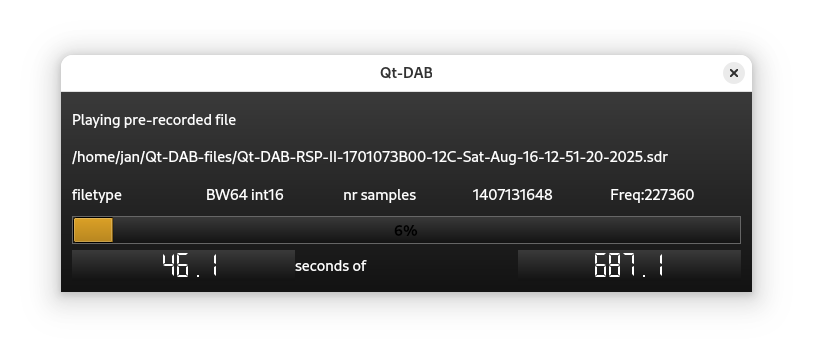
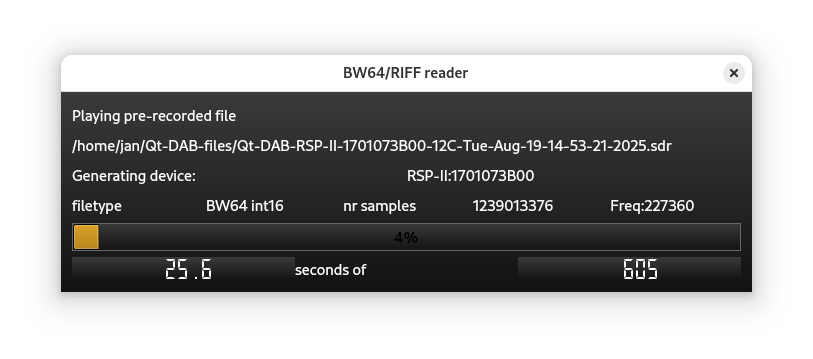
added devicename to .sdr files

diff --git a/sources/devices/filereaders/new-reader/riff-reader.cpp b/sources/devices/filereaders/new-reader/riff-reader.cpp
@@ -44,9 +44,10 @@ uint32_t segmentSize;
 char header [5];
 
         header [4]	= 0;
-	bitDepth	= 15;	// default
+	bitDepth	= 0;	// i.e. unknown
 	tunedFrequency	= -1;
 	denominator	= 0;
+	theDevice	= "";
 	filePointer     = fopen (fileName. toLatin1 (). data (), "rb");
         if (filePointer == nullptr) {
 	   QString val =
@@ -174,6 +175,12 @@ char header [5];
 	   if (QString (header) == "bits")
 	      fread (&bitDepth, 1, 4, filePointer);
 	   else
+	   if (QString (header) == "sys ") {
+	      char temp [255];
+	      fread (temp, 1, segmentSize, filePointer);
+	      theDevice	= QString (temp);
+	   }
+	   else
 	      fseek (filePointer, segmentSize, SEEK_CUR);
 	   fread (header, 1, 4, filePointer);
 //	   fprintf (stderr, "Now we read %s\n", header);
@@ -184,7 +191,7 @@ char header [5];
            }
 	}
 
-	denominator	= value_for (bitDepth);
+	denominator	= bitDepth != 0 ? value_for (bitDepth) : 32768;
 	if (QString (header) != "data") {	// should not happen
 	   QString val =
                    QString ("File '%1' is no valid SDR file").arg(fileName);
@@ -299,6 +306,12 @@ char header [5];
 	   if (QString (header) == "bits")
 	      fread (&bitDepth, 1, 4, filePointer);
 	   else
+	   if (QString (header) == "sys ") {
+	      char temp [255];
+	      fread (temp, 1, segmentSize, filePointer);
+	      theDevice	= QString (temp);
+	   }
+	   else
 	      fseek (filePointer, segmentSize, SEEK_CUR);
 	   fread (header, 1, 4, filePointer);
 //	   fprintf (stderr, "Now we read %s\n", header);
@@ -309,7 +322,7 @@ char header [5];
            }
 	}
 
-	denominator	= value_for (bitDepth);
+	denominator	= bitDepth != 0 ? value_for (bitDepth): 32768;
 	if (QString (header) != "data") {	// should not happen
 	   QString val =
                    QString ("File '%1' is no valid SDR file").arg(fileName);
@@ -403,5 +416,9 @@ uint64_t	riffReader::currentPos		() {
 
 int	riffReader::getVFOFrequency	() {
 	return tunedFrequency;
+}
+
+QString		riffReader::getDevice	() {
+	return theDevice;
 }
 

diff --git a/sources/devices/filereaders/filereader-widget.h b/sources/devices/filereaders/filereader-widget.h
@@ -37,6 +37,8 @@ public:
 	QLCDNumber	*currentTime;
 	QLabel		*seconds;
 	QLCDNumber	*totalTime;
+	QLabel		*deviceLabel;
+	QLabel		*theDevice;
 	QLabel		*typeLabel;
 	QLabel		*typeOfFile;
 	QLabel		*amountLabel;
@@ -48,6 +50,8 @@ public:
 void	setupUi		(QWidget *qw) {
 	titleLabel	= new QLabel ("Playing pre-recorded file");
 	nameofFile	= new QLabel ();
+	deviceLabel	= new QLabel ();
+	theDevice	= new QLabel ();
 	typeLabel	= new QLabel ("filetype ");
 	typeOfFile	= new QLabel ();
 	amountLabel	= new QLabel (" nr samples ");
@@ -64,11 +68,14 @@ void	setupUi		(QWidget *qw) {
 	totalTime	->  setFrameShape (QFrame::NoFrame);
 	totalTime	->  setSegmentStyle (QLCDNumber::Flat);
 	QHBoxLayout *line_2	= new QHBoxLayout ();
-	line_2		-> addWidget (typeLabel);
-	line_2		-> addWidget (typeOfFile);
-	line_2		-> addWidget (amountLabel);
-	line_2		-> addWidget (sampleCount);
-	line_2		-> addWidget (frequencyLabel);
+	line_2		-> addWidget	(deviceLabel);
+	line_2		-> addWidget (theDevice);
+	QHBoxLayout *line_3	= new QHBoxLayout ();
+	line_3		-> addWidget (typeLabel);
+	line_3		-> addWidget (typeOfFile);
+	line_3		-> addWidget (amountLabel);
+	line_3		-> addWidget (sampleCount);
+	line_3		-> addWidget (frequencyLabel);
 	QHBoxLayout *bottom	= new QHBoxLayout ();
 	bottom		-> addWidget (currentTime);
 	bottom		-> addWidget (seconds);
@@ -78,6 +85,7 @@ void	setupUi		(QWidget *qw) {
 	base		-> addWidget (titleLabel);
 	base		-> addWidget (nameofFile);
 	base		-> addItem	(line_2);
+	base		-> addItem	(line_3);
 	base		-> addWidget (fileProgress);
 	base		-> addItem   (bottom);
 	

diff --git a/sources/support/riffWriter.cpp b/sources/support/riffWriter.cpp
@@ -43,6 +43,8 @@ const char	* aux1	= "freq";
 static
 const char	* aux2	= "bits";
 static
+const char	* aux3	= "sys ";
+static
 const char	* data	= "data";
 
 	riffWriter::riffWriter	() {
@@ -52,7 +54,8 @@ const char	* data	= "data";
 	riffWriter::~riffWriter	() {}
 
 bool	riffWriter::init	(const QString &fileName, const int sampleRate, 
-	                 const int frequency, const int bitDepth) {
+	                         const int frequency, const int bitDepth,
+	                         QString creatorText) {
 	isValid			= false;
 	filePointer		= fopen (fileName. toUtf8 (). data (), "wb");
 	if (filePointer == nullptr)
@@ -122,6 +125,17 @@ bool	riffWriter::init	(const QString &fileName, const int sampleRate,
 	   locationCounter	+= 4;
 	   fwrite (&bitDepth, 1, 4, filePointer);
 	   locationCounter	+= 4;
+	}
+//	the "creator" chunk
+	if (bitDepth > 0) {
+	   fwrite (aux3, 1, 4, filePointer);
+	   locationCounter	+= 4;
+	   int size = strlen (creatorText. toLatin1 (). data ());
+	   locationCounter	+= 4;
+	   fwrite (&size,  1, 4, filePointer);
+	   locationCounter	+= 4;
+	   fwrite (creatorText. toLatin1 (). data (), 1, size, filePointer);
+	   locationCounter	+= size;
 	}
 //
 //	start of the "data" chunk

diff --git a/sources/devices/filereaders/new-reader/newfiles.cpp b/sources/devices/filereaders/new-reader/newfiles.cpp
@@ -40,6 +40,7 @@
 	newFilesSettings	= s;
 	setupUi (&myFrame);
 	setPositionAndSize (s, &myFrame, WAVSETTINGS);
+	myFrame. setWindowTitle ("BW64/RIFF reader");
 	myFrame. show	();
 	this -> fileName	= fileName;
 
@@ -48,7 +49,12 @@
 	currentTime		-> display (0);
 	int64_t fileLength	= theReader. elementCount ();
 	QString	fileType	= theReader. fileType ();
+	QString deviceName	= theReader. getDevice ();
 	totalTime	-> display ((float)fileLength / SAMPLERATE);
+	if (deviceName != "") {
+	   deviceLabel	-> setText ("Generating device: ");
+	   theDevice	-> setText (deviceName);
+	}
 	typeOfFile	-> setText (fileType);
 	sampleCount	-> setText (QString::number (fileLength));
 	int32_t	Freq	= theReader. getVFOFrequency ();

diff --git a/sources/frontend/fib-decoder.cpp b/sources/frontend/fib-decoder.cpp
@@ -923,7 +923,17 @@ const int16_t	Length	= getBits_5 (d, 3);
 const uint8_t	CN_bit	= getBits_1 (d, 8 + 0);
 const uint8_t	OE_bit	= getBits_1 (d, 8 + 1);
 const uint8_t	PD_bit	= getBits_1 (d, 8 + 2);
-	fprintf (stderr, "Fig20\n");
+#ifndef	__MINGW32__
+	static bool shown = false;
+	if (!shown) {
+	   if (theEnsemble. namePresent) {
+	      fprintf (stderr, "FIG0/20 appears in %s\n",
+	                           theEnsemble. ensembleName.
+	                                     toLatin1 (). data ());
+	      shown = true;
+	   }
+	}
+#endif
 	return;
 	while (used < Length) 
 	   used = HandleFIG0Extension21 (d, used, CN_bit, OE_bit, PD_bit);

diff --git a/sources/frontend/sample-reader.cpp b/sources/frontend/sample-reader.cpp
@@ -185,8 +185,10 @@ auto *buffer	= dynVec (std::complex<float>, nrSamples);
 }
 
 void	sampleReader::startDumping (const QString &fileName,
-	                                      int freq, int bitDepth) {
-	sourceDumper. init (fileName, SAMPLERATE, freq, bitDepth);
+	                            int freq, int bitDepth, 
+	                            const QString deviceName) {
+	sourceDumper. init (fileName, SAMPLERATE,
+	                    freq, bitDepth, deviceName);
 }
 
 void	sampleReader::stopDumping() {

diff --git a/sources/main/radio.cpp b/sources/main/radio.cpp
@@ -3476,7 +3476,9 @@ QString channelName	= channel. channelName;
 	                                     deviceName, channelName);
 	configHandler_p	-> mark_dumpButton (true);
 	theOFDMHandler -> startDumping (rawDumpName,
-	                            channel. tunedFrequency, bitDepth);
+	                                channel. tunedFrequency, 
+	                                bitDepth,
+	                                inputDevice_p -> deviceName ());
 	sourceDumping = true;
 }
 

diff --git a/sources/frontend/ofdm-handler.cpp b/sources/frontend/ofdm-handler.cpp
@@ -643,8 +643,8 @@ bool    ofdmHandler::setDataChannel (packetdata &d,
 }
 
 void	ofdmHandler::startDumping	(const QString &f, int freq,
-	                                               int bitDepth) {
-	theReader. startDumping (f, freq, bitDepth);
+	                                 int bitDepth, const QString creator) {
+	theReader. startDumping (f, freq, bitDepth, creator);
 }
 
 void	ofdmHandler::stopDumping() {

diff --git a/sources/frontend/sample-reader.h b/sources/frontend/sample-reader.h
@@ -55,7 +55,7 @@ public:
 	      void	getSamples	(std::vector<Complex> &v,
 	                                 int index,
 	                                 int32_t n, int32_t phase, bool saving);
-	      void	startDumping	(const QString &, int, int);
+	      void	startDumping	(const QString &, int, int, const QString);
 	      void	stopDumping	();
 private:
 	      riffWriter	sourceDumper;

diff --git a/sources/support/riffWriter.h b/sources/support/riffWriter.h
@@ -32,7 +32,8 @@ public:
 		riffWriter	();
 		~riffWriter	();
 	bool	init		(const QString &, int,
-	                               int bitDepth = 0, int frequency = 0);
+	                         int bitDepth = 0, int frequency = 0,
+	                         QString creator = "Qt-DAB-6.9.3");
 	void	write		(int16_t *buff, uint64_t samples);
 	void	close		();
 	bool	isActive	();

diff --git a/sources/frontend/ofdm-handler.h b/sources/frontend/ofdm-handler.h
@@ -62,7 +62,8 @@ public:
 	void		stop			();
 
 	void		selectTII		(uint8_t);
-	void		startDumping		(const QString &, int, int);
+	void		startDumping		(const QString &, int, 
+	                                         int, const QString);
 	void		stopDumping		();
 	bool		startEtiGenerator	(const QString &);
 	void		stopEtiGenerator	();

diff --git a/sources/devices/filereaders/new-reader/riff-reader.h b/sources/devices/filereaders/new-reader/riff-reader.h
@@ -37,11 +37,12 @@ public:
 	uint64_t	elementCount	();
 	QString		fileType	();
 	uint64_t	currentPos	();
-
 	int		getVFOFrequency	();
+	QString		getDevice	();
 private:
 
 	QString		fileName;
+	QString		theDevice;
 	uint16_t	formatTag;
         uint16_t	nrChannels;
         uint32_t	samplingRate;
